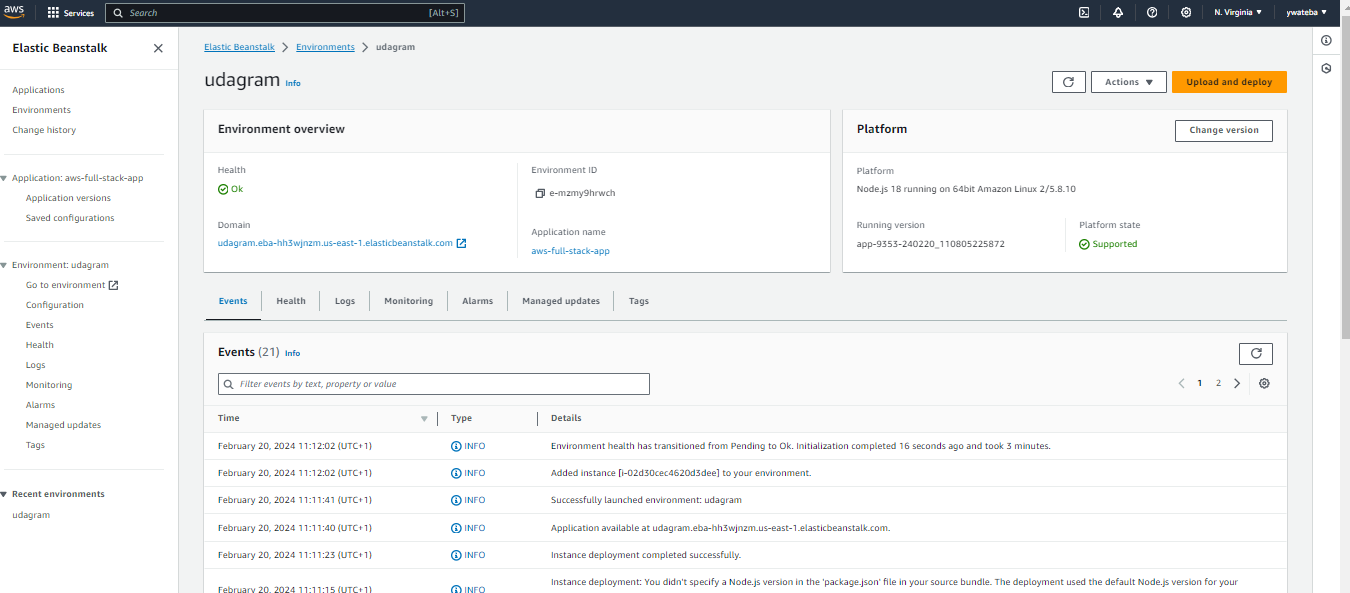
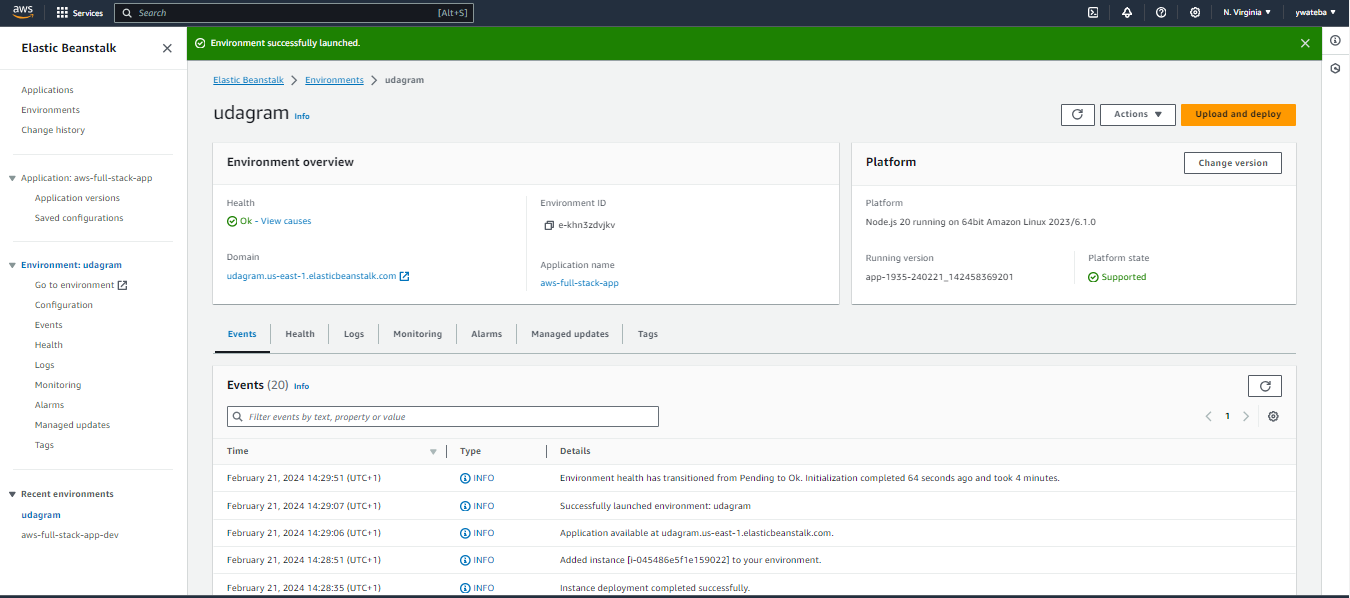
updates

diff --git a/README.md b/README.md
@@ -36,7 +36,7 @@ To run the project you nedd to have the follwing install
 
 ### Deployment page
 
-  - http://udagram.eba-hh3wjnzm.us-east-1.elasticbeanstalk.com/
+  - http://udagram.us-east-1.elasticbeanstalk.com/
 
 
 
